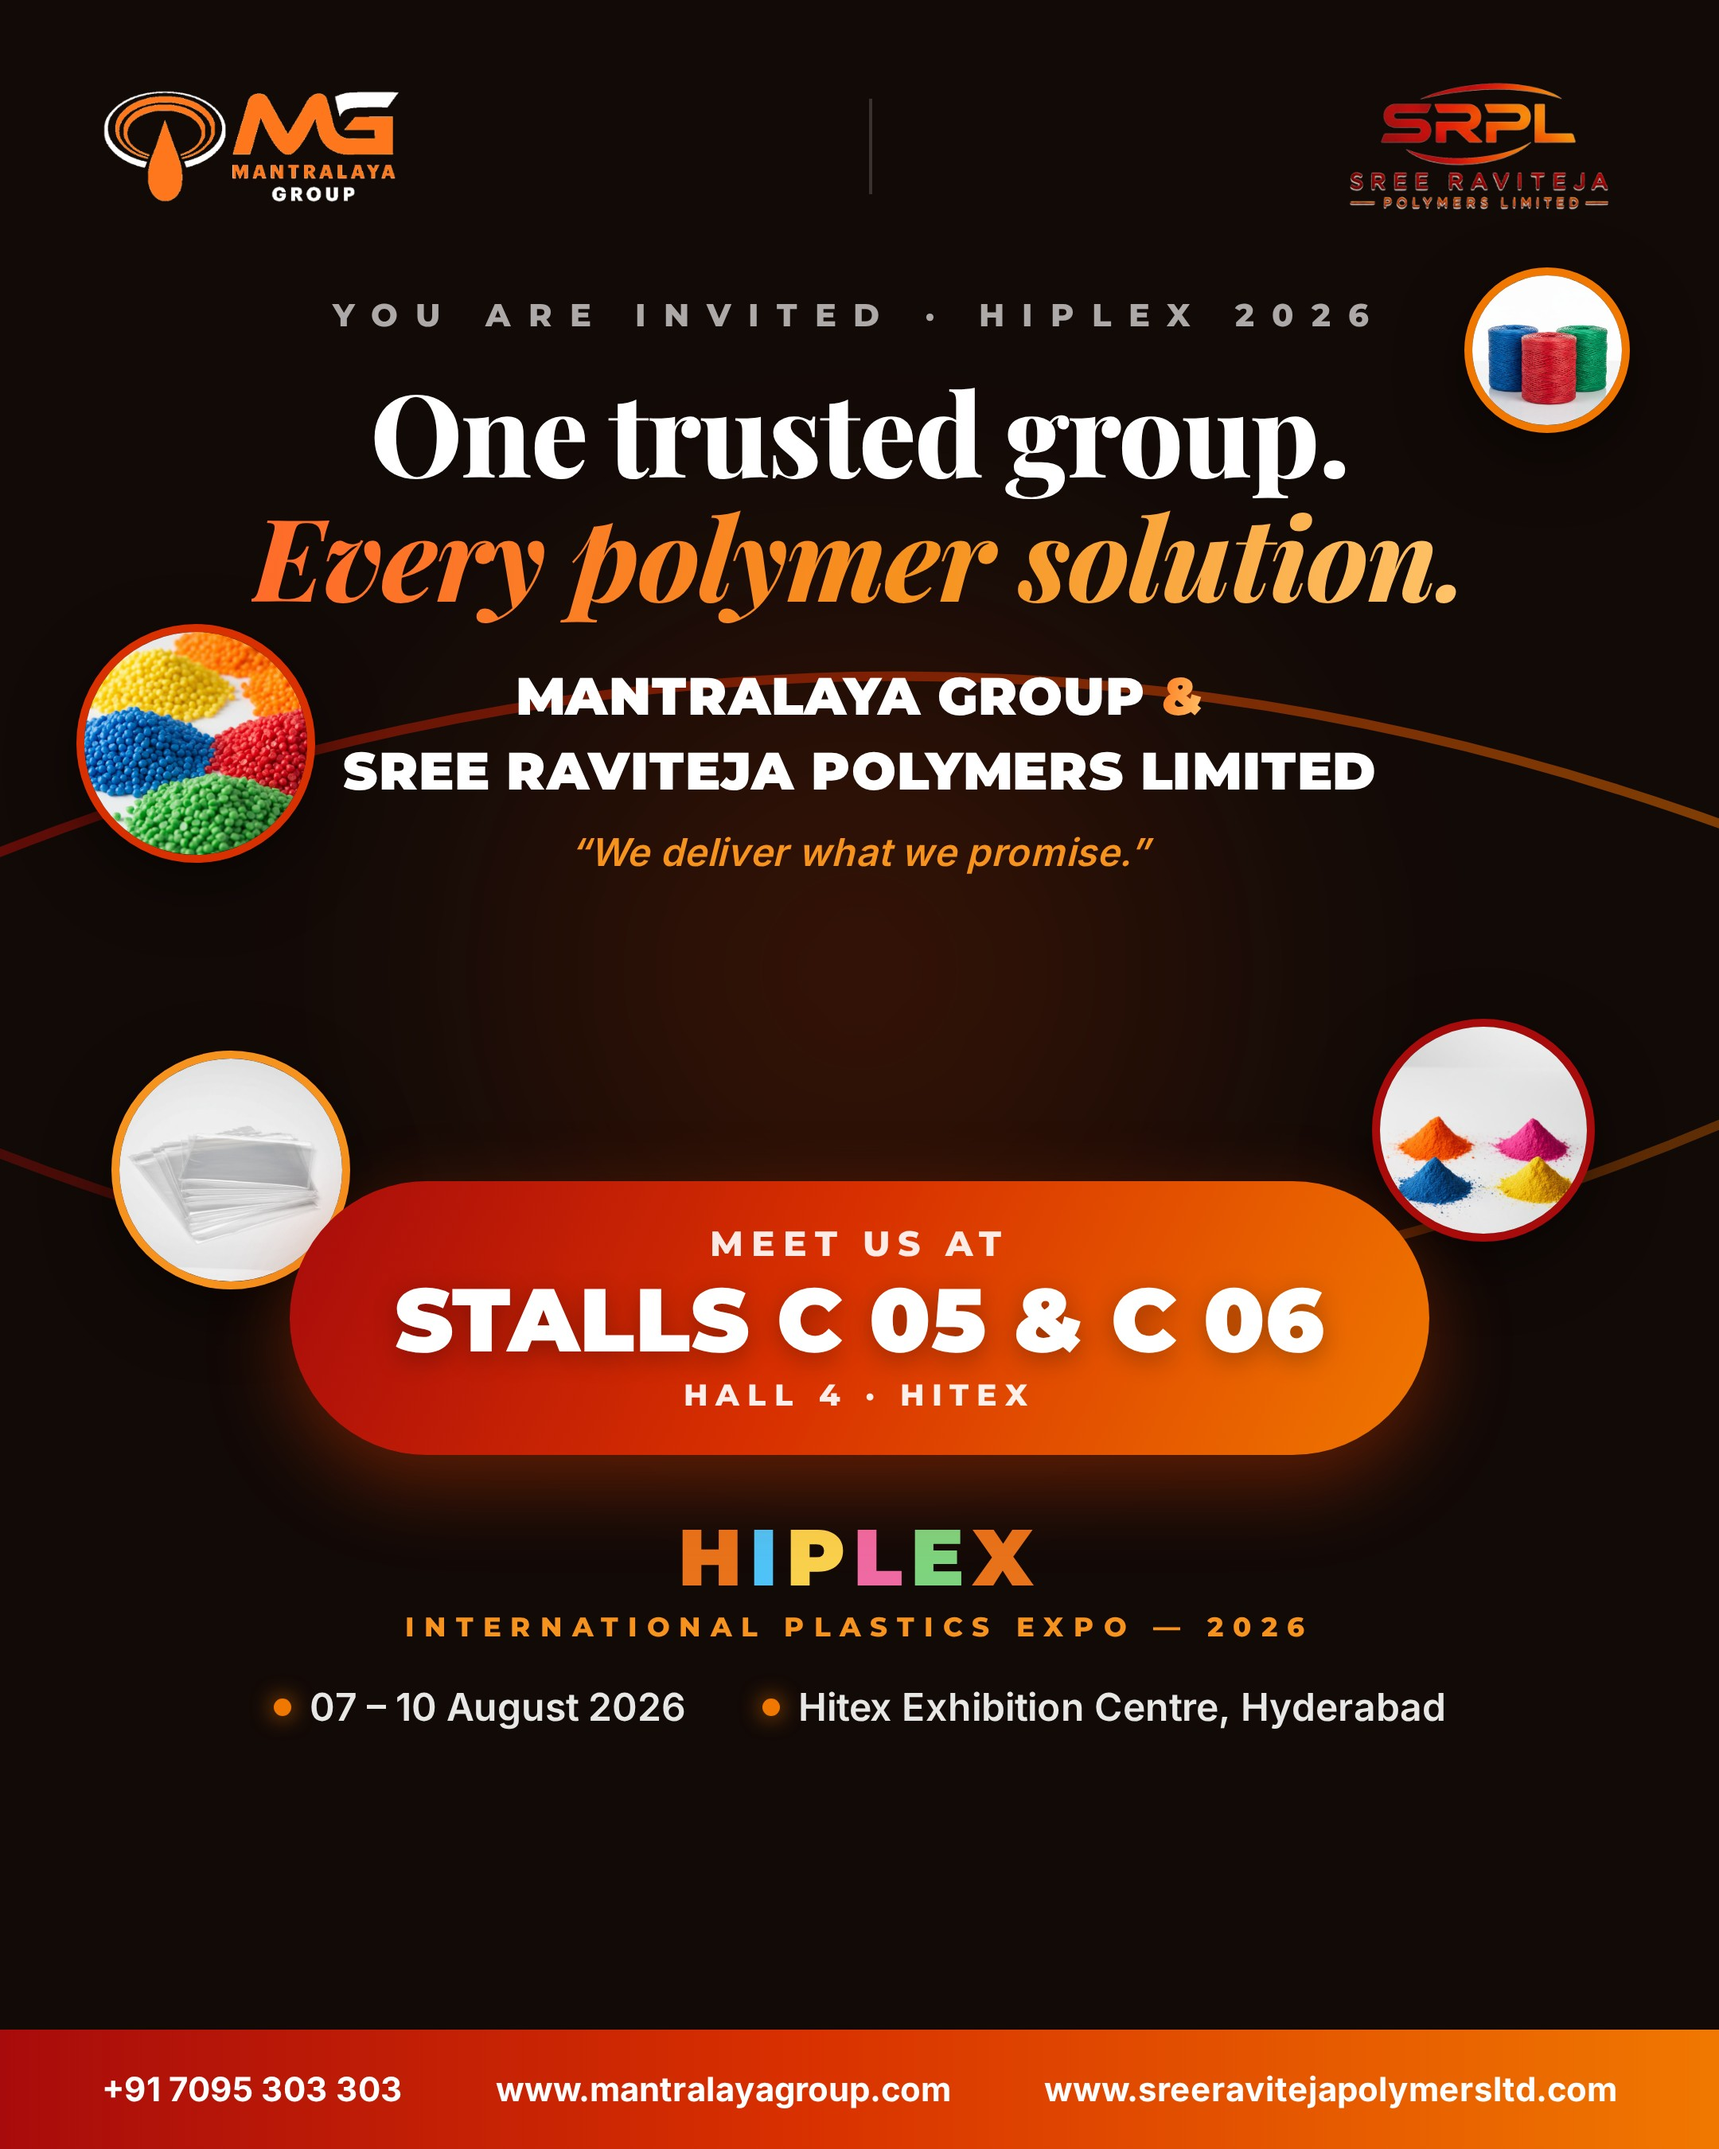
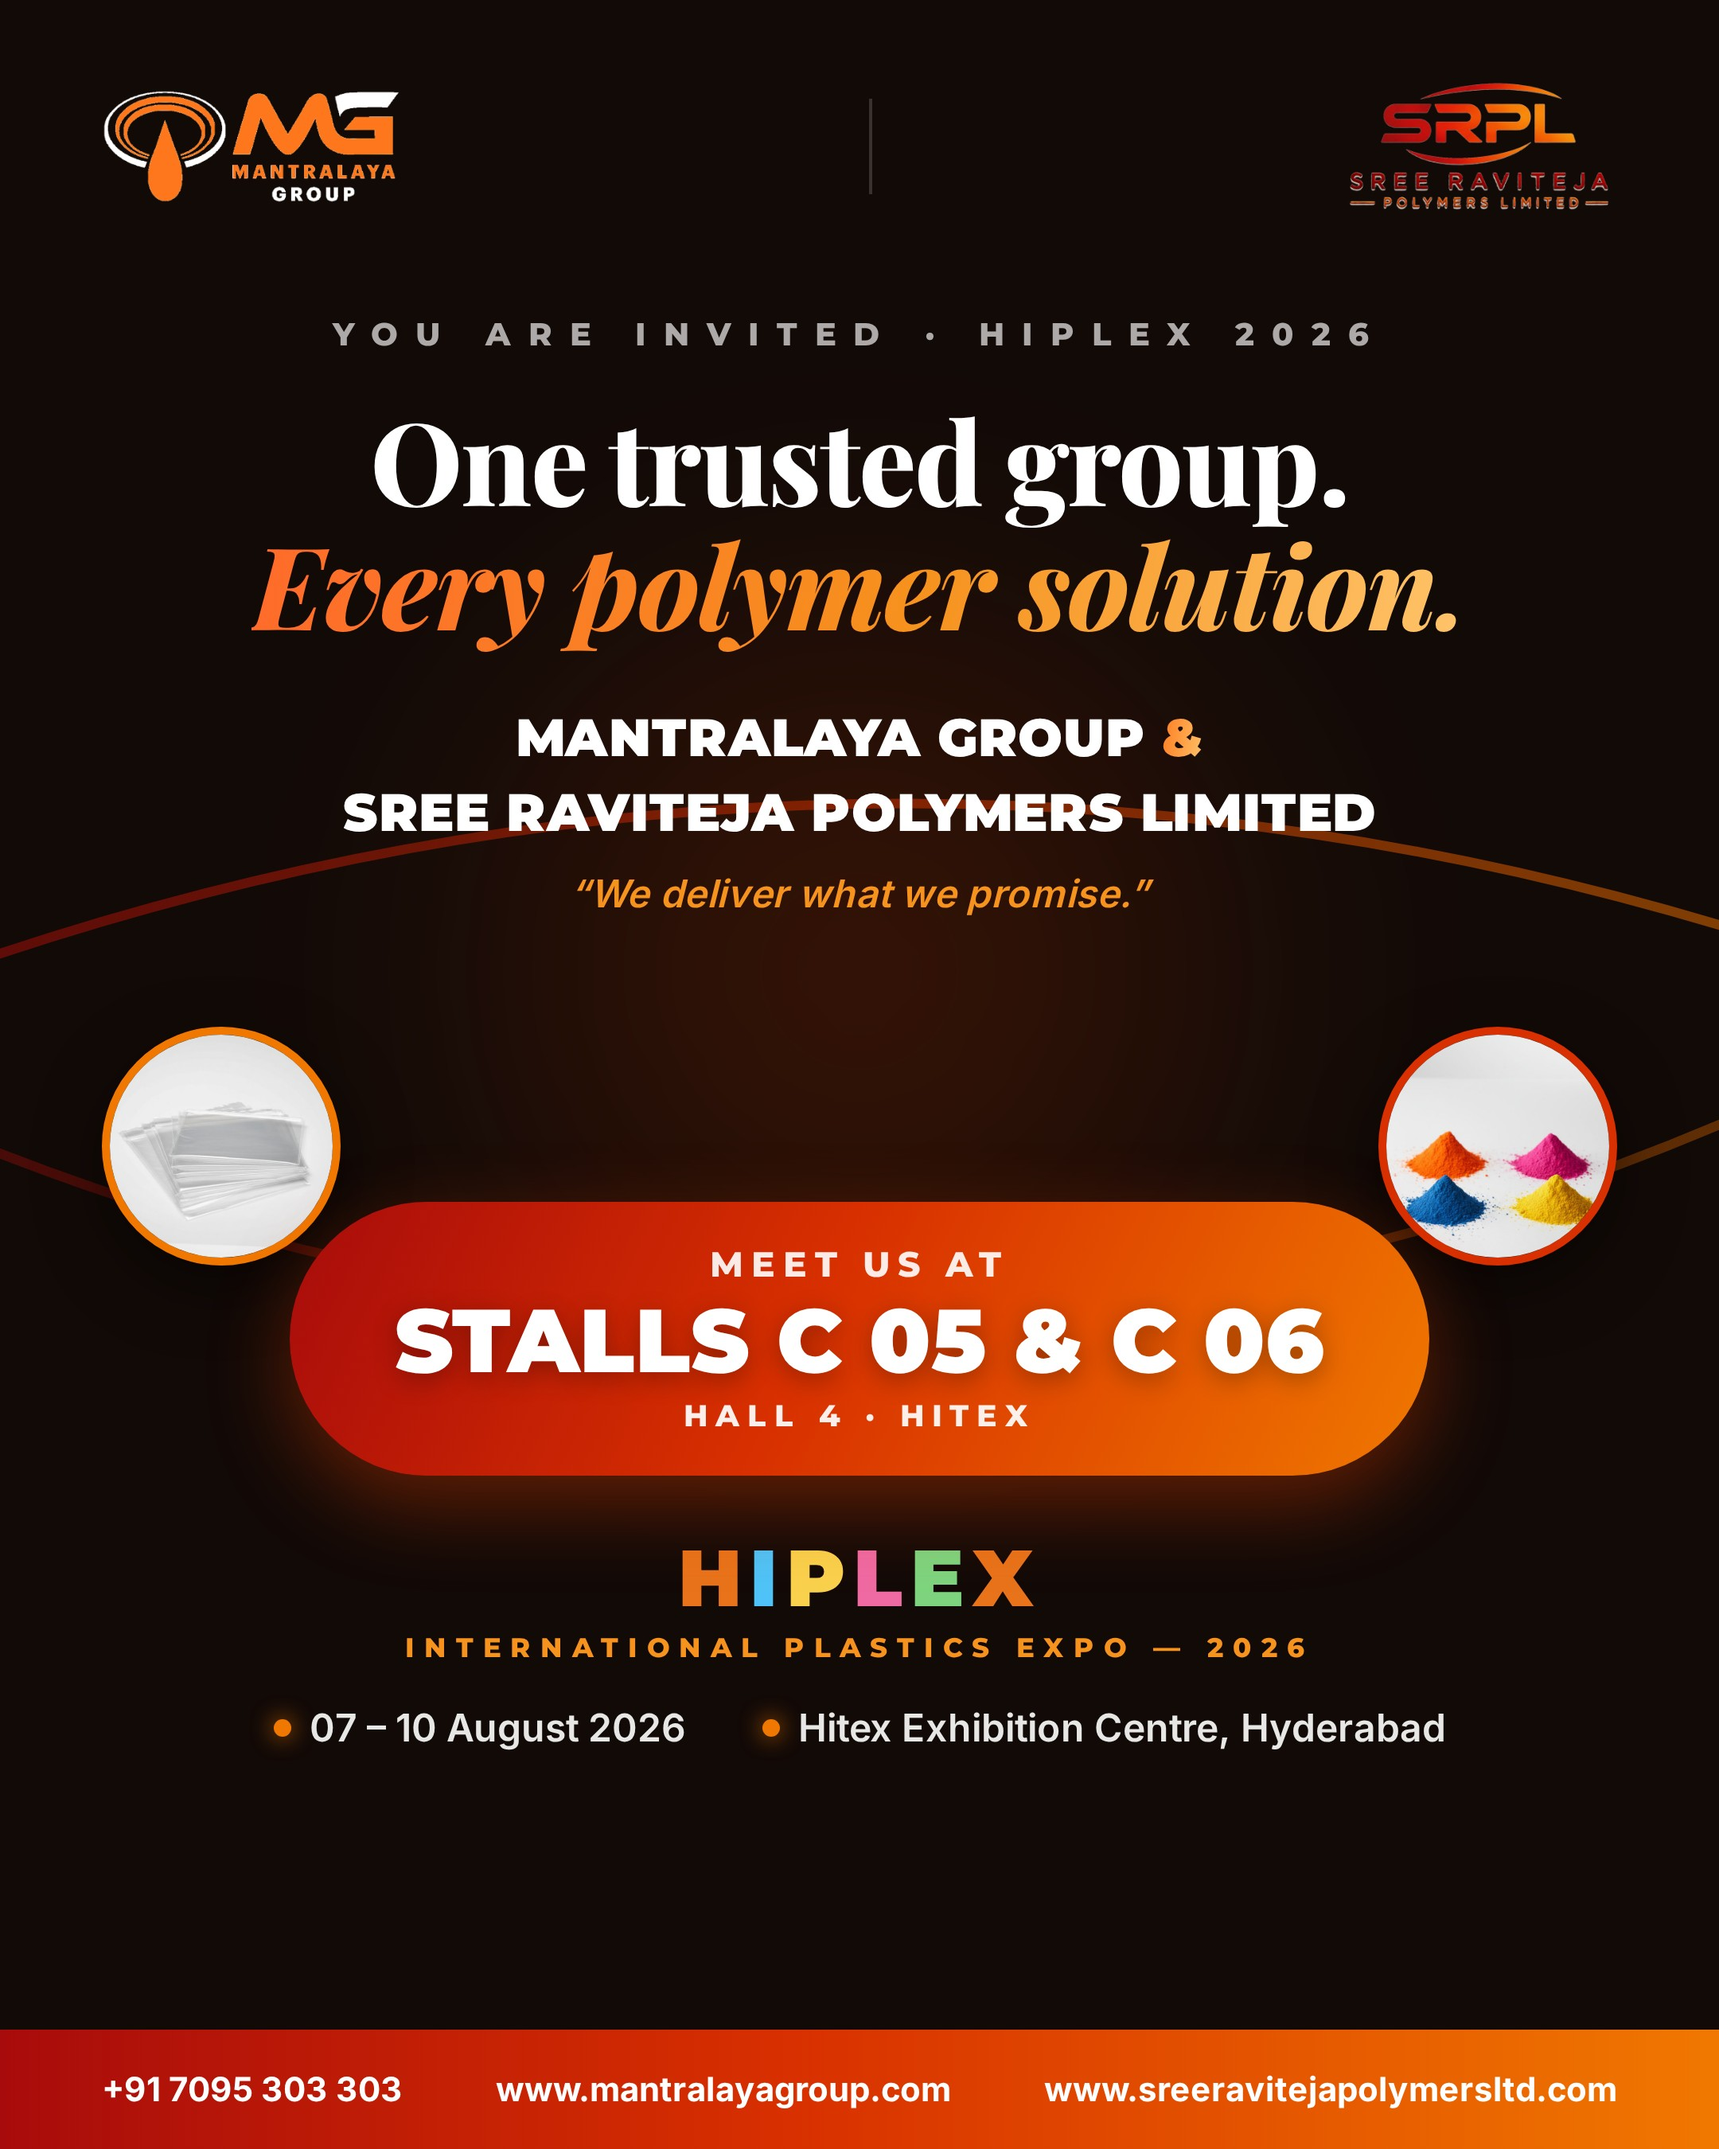
Invite L: decluttered top, symmetric orbs, aligned column

diff --git a/invites/invite-l.html b/invites/invite-l.html
@@ -10,16 +10,16 @@ body { width:1080px; height:1350px; font-family:'Montserrat',sans-serif; backgro
 .orb img { width:100%; height:100%; object-fit:cover; display:block; }
 .o1 { width:150px; height:150px; top:392px; left:48px; border-color:#D83000; }
 .o2 { width:104px; height:104px; top:168px; right:56px; border-color:#F07800; }
-.o3 { width:140px; height:140px; top:640px; right:78px; border-color:#A80B0B; }
-.o4 { width:150px; height:150px; top:660px; left:70px; border-color:#F6921E; }
+.o3 { width:150px; height:150px; top:645px; right:64px; border-color:#D83000; }
+.o4 { width:150px; height:150px; top:645px; left:64px; border-color:#F07800; }
 .inner { position:relative; z-index:2; display:flex; flex-direction:column; height:100%; padding:50px 64px 0; }
 .logos { display:flex; align-items:center; justify-content:space-between; }
 .logos img { height:72px; }
 .divider { width:2px; height:60px; background:rgba(255,255,255,0.16); }
-.eyebrow { margin-top:52px; text-align:center; font-size:20px; font-weight:800; letter-spacing:11px; color:rgba(255,255,255,0.65); }
-.caption { margin-top:22px; text-align:center; font-family:'Playfair Display',serif; font-size:72px; font-weight:800; line-height:1.08; letter-spacing:-1px; }
+.eyebrow { margin-top:64px; text-align:center; font-size:20px; font-weight:800; letter-spacing:11px; color:rgba(255,255,255,0.65); }
+.caption { margin-top:28px; text-align:center; font-family:'Playfair Display',serif; font-size:72px; font-weight:800; line-height:1.08; letter-spacing:-1px; }
 .caption .l2 { background:linear-gradient(100deg,#FF6A2B,#F6921E 55%,#FFC46B); -webkit-background-clip:text; background-clip:text; color:transparent; font-style:italic; }
-.who { margin-top:26px; text-align:center; font-family:'Montserrat',sans-serif; font-size:33px; font-weight:900; color:#fff; line-height:1.45; letter-spacing:0.3px; }
+.who { margin-top:34px; text-align:center; font-family:'Montserrat',sans-serif; font-size:33px; font-weight:900; color:#fff; line-height:1.45; letter-spacing:0.3px; }
 .who .amp { background:linear-gradient(100deg,#FF7A1E,#FFC46B); -webkit-background-clip:text; background-clip:text; color:transparent; }
 .who .quote { display:block; margin-top:10px; font-family:'Inter',sans-serif; font-size:24px; font-weight:600; font-style:italic; color:#F6921E; }
 .spacer { flex:1; }
@@ -42,12 +42,10 @@ body { width:1080px; height:1350px; font-family:'Montserrat',sans-serif; backgro
     <defs><linearGradient id="ag" x1="0" y1="0" x2="1" y2="0">
       <stop offset="0" stop-color="#A80B0B"/><stop offset="0.5" stop-color="#D83000"/><stop offset="1" stop-color="#F07800"/>
     </linearGradient></defs>
-    <path d="M -60 560 Q 540 300 1140 540" stroke="url(#ag)" stroke-width="6" stroke-linecap="round" opacity="0.5"/>
+    <path d="M -60 620 Q 540 400 1140 600" stroke="url(#ag)" stroke-width="6" stroke-linecap="round" opacity="0.5"/>
     <path d="M -60 700 Q 540 960 1140 680" stroke="url(#ag)" stroke-width="6" stroke-linecap="round" opacity="0.35"/>
   </svg>
   <div class="glow"></div>
-  <div class="orb o1"><img src="../products/coloured-granules.jpg"></div>
-  <div class="orb o2"><img src="../products/plastic-sutli.jpg"></div>
   <div class="orb o3"><img src="../products/pigments.jpg"></div>
   <div class="orb o4"><img src="../products/pp-bags.jpg"></div>
   <div class="inner">
